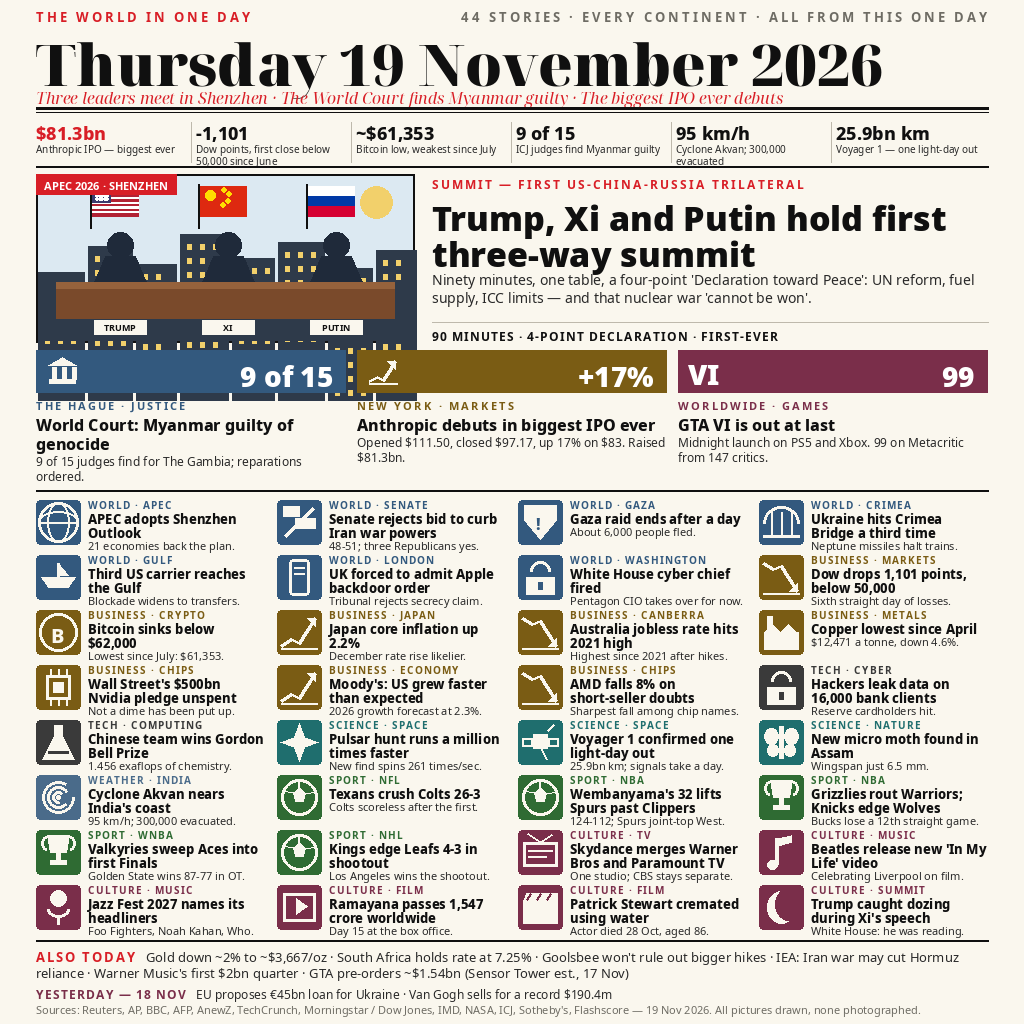
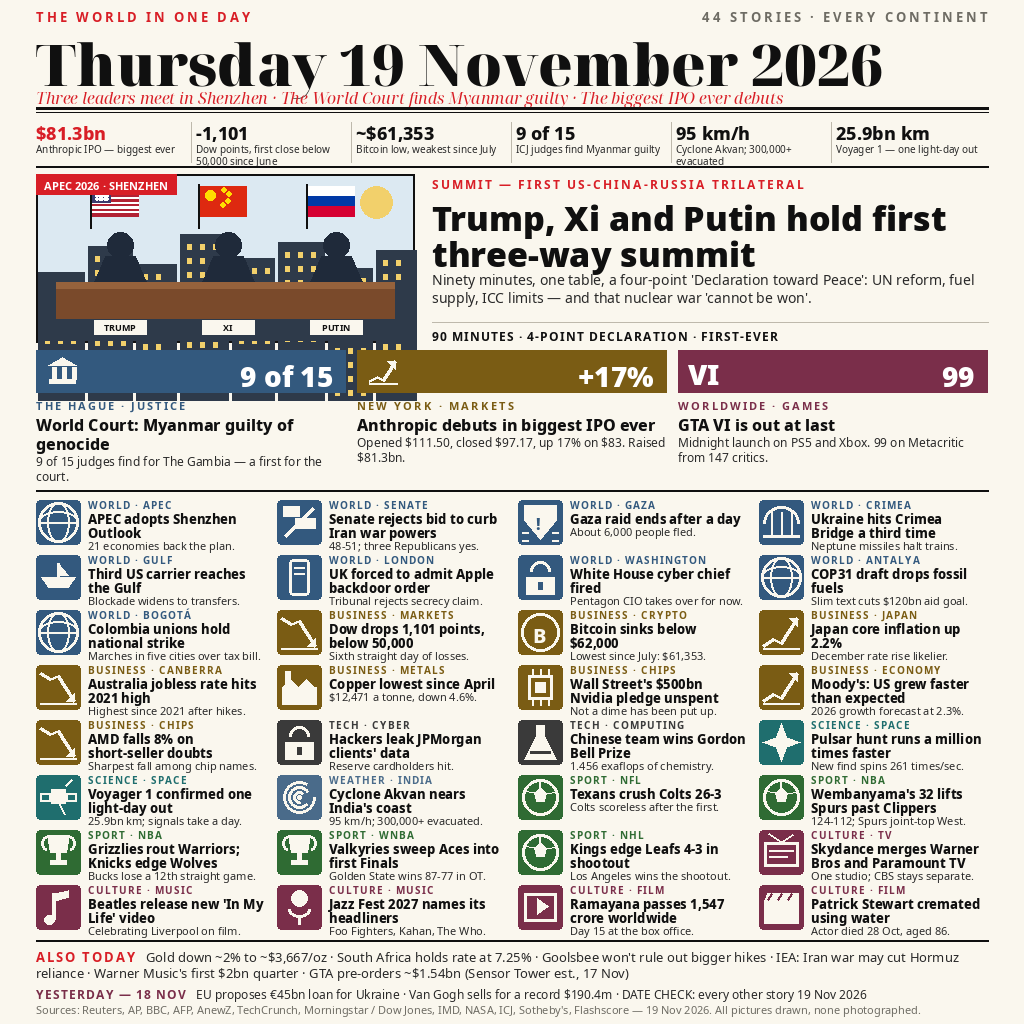
v6 fix round: audit round-1 defects D1-D7
- D1: add COP31 draft item (WORLD / ANTALYA) - fossil fuels stripped,
  $120bn aid goal cut; verified live via Reuters 19 Nov
- D2: add Colombia national strike (WORLD / BOGOTA) - CUT-called,
  marches in five cities over tax bill; verified live 19 Nov
- Swaps (count stays 44): remove micro moth + Trump dozing, the two
  lowest-consequence items; World 9, Science 2, Culture 5
- D3: Jazz Fest deck -> 'Foo Fighters, Kahan, The Who.'
- D4: Akvan '300,000' -> '300,000+' in numbers strip + grid deck
- D5: hackers headline -> 'Hackers leak JPMorgan clients' data'
- D6: ICJ deck carries historic-first framing
- D7: masthead strip -> '44 STORIES / EVERY CONTINENT'
- Footer: 'DATE CHECK: every other story 19 Nov 2026' on Yesterday line
- Research addendum in work/research-v6-addendum.md (outside repo)

diff --git a/render_v6.py b/render_v6.py
@@ -376,7 +376,7 @@ def tile(d, x, y, s, colour, key):
 # (kicker, pictogram key, section colour, headline, one-line deck)
 
 GRID = [
-    # WORLD (7)
+    # WORLD (9)
     ("WORLD · APEC", "globe", STEEL,
      "APEC adopts Shenzhen Outlook",
      "21 economies back the plan."),
@@ -398,6 +398,12 @@ GRID = [
     ("WORLD · WASHINGTON", "lock", STEEL,
      "White House cyber chief fired",
      "Pentagon CIO takes over for now."),
+    ("WORLD · ANTALYA", "globe", STEEL,
+     "COP31 draft drops fossil fuels",
+     "Slim text cuts $120bn aid goal."),
+    ("WORLD · BOGOTÁ", "globe", STEEL,
+     "Colombia unions hold national strike",
+     "Marches in five cities over tax bill."),
     # BUSINESS (8)
     ("BUSINESS · MARKETS", "chart-down", OCHRE,
      "Dow drops 1,101 points, below 50,000",
@@ -425,25 +431,22 @@ GRID = [
      "Sharpest fall among chip names."),
     # TECH (2)
     ("TECH · CYBER", "lock", SLATE,
-     "Hackers leak data on 16,000 bank clients",
+     "Hackers leak JPMorgan clients' data",
      "Reserve cardholders hit."),
     ("TECH · COMPUTING", "flask", SLATE,
      "Chinese team wins Gordon Bell Prize",
      "1.456 exaflops of chemistry."),
-    # SCIENCE (3)
+    # SCIENCE (2)
     ("SCIENCE · SPACE", "star", TEAL,
      "Pulsar hunt runs a million times faster",
      "New find spins 261 times/sec."),
     ("SCIENCE · SPACE", "satellite", TEAL,
      "Voyager 1 confirmed one light-day out",
      "25.9bn km; signals take a day."),
-    ("SCIENCE · NATURE", "moth", TEAL,
-     "New micro moth found in Assam",
-     "Wingspan just 6.5 mm."),
     # WEATHER (1)
     ("WEATHER · INDIA", "cyclone", SKY,
      "Cyclone Akvan nears India's coast",
-     "95 km/h; 300,000 evacuated."),
+     "95 km/h; 300,000+ evacuated."),
     # SPORT (5)
     ("SPORT · NFL", "ball", GREEN,
      "Texans crush Colts 26-3",
@@ -460,7 +463,7 @@ GRID = [
     ("SPORT · NHL", "ball", GREEN,
      "Kings edge Leafs 4-3 in shootout",
      "Los Angeles wins the shootout."),
-    # CULTURE (6)
+    # CULTURE (5)
     ("CULTURE · TV", "tv", WINE,
      "Skydance merges Warner Bros and Paramount TV",
      "One studio; CBS stays separate."),
@@ -469,23 +472,20 @@ GRID = [
      "Celebrating Liverpool on film."),
     ("CULTURE · MUSIC", "mic", WINE,
      "Jazz Fest 2027 names its headliners",
-     "Foo Fighters, Noah Kahan, Who."),
+     "Foo Fighters, Kahan, The Who."),
     ("CULTURE · FILM", "film", WINE,
      "Ramayana passes 1,547 crore worldwide",
      "Day 15 at the box office."),
     ("CULTURE · FILM", "clapper", WINE,
      "Patrick Stewart cremated using water",
      "Actor died 28 Oct, aged 86."),
-    ("CULTURE · SUMMIT", "moon", WINE,
-     "Trump caught dozing during Xi's speech",
-     "White House: he was reading."),
 ]
 
 # Second leads: (band colour, band big text, kicker, headline, deck)
 SECOND = [
     (STEEL, "9 of 15", "THE HAGUE · JUSTICE",
      "World Court: Myanmar guilty of genocide",
-     "9 of 15 judges find for The Gambia; reparations ordered."),
+     "9 of 15 judges find for The Gambia — a first for the court."),
     (OCHRE, "+17%", "NEW YORK · MARKETS",
      "Anthropic debuts in biggest IPO ever",
      "Opened $111.50, closed $97.17, up 17% on $83. Raised $81.3bn."),
@@ -500,7 +500,7 @@ NUMBERS = [
     ("-1,101", "Dow points, first close below 50,000 since June"),
     ("~$61,353", "Bitcoin low, weakest since July"),
     ("9 of 15", "ICJ judges find Myanmar guilty"),
-    ("95 km/h", "Cyclone Akvan; 300,000 evacuated"),
+    ("95 km/h", "Cyclone Akvan; 300,000+ evacuated"),
     ("25.9bn km", "Voyager 1 — one light-day out"),
 ]
 
@@ -601,7 +601,7 @@ def main():
     # ---- masthead ------------------------------------------------------
     y = 8
     tracked(d, M, y, "THE WORLD IN ONE DAY", F_BOLD(13), ACCENT, tracking=3)
-    right = "44 STORIES · EVERY CONTINENT · ALL FROM THIS ONE DAY"
+    right = "44 STORIES · EVERY CONTINENT"
     tracked(d, W - M - tracked_w(d, right, F_BOLD(13), 3), y, right,
             F_BOLD(13), GREY, tracking=3)
     y = 24
@@ -745,7 +745,8 @@ def main():
     x = tracked(d, M, y, "YESTERDAY — 18 NOV", F_BOLD(12), WINE, tracking=1)
     x += 10
     yday = ("EU proposes €45bn loan for Ukraine · "
-            "Van Gogh sells for a record $190.4m")
+            "Van Gogh sells for a record $190.4m · "
+            "DATE CHECK: every other story 19 Nov 2026")
     d.text((x, y), yday, font=F_REG(12), fill=BODY)
     d.text((M, y + 16),
            "Sources: Reuters, AP, BBC, AFP, AnewZ, TechCrunch, "

diff --git a/main.py b/main.py
@@ -11,7 +11,8 @@ pictogram grid across world, business, tech, science, weather, sport and
 culture, an "Also today" ticker, and a clearly labelled "Yesterday — 18
 Nov" slot for the EU Ukraine loan and the record Van Gogh sale, which are
 not 19 Nov events. 44 stories on the page in total, every headline,
-figure and date taken from the verified research in work/research-v6.md.
+figure and date taken from the verified research in work/research-v6.md
+and work/research-v6-addendum.md (COP31 draft, Colombia strike).
 
 The image itself is drawn at build time by render_v6.py (Pillow, fixed
 data, no clock, no network, no randomness) and committed as entry.png;

diff --git a/README.md b/README.md
@@ -19,9 +19,9 @@ mkdir -p out && MAKEFUN_OUTPUT_DIR=out python3 main.py
 A dense illustrated front page — "The World in One Page" — for Thursday 19 November 2026: 44 stories on one page. A huge serif masthead names the date, a six-figure "day in numbers" strip runs underneath, and the lead is a flat diagrammatic illustration of the first US-China-Russia trilateral in Shenzhen (skyline, three flags, an abstract table — no faces, no fake photos).
 
 - **Lead — Summit in Shenzhen:** Trump, Xi and Putin hold a first three-way summit. Ninety minutes, one table, a four-point "Declaration toward Peace": UN reform, fuel supply, ICC limits — and that nuclear war "cannot be won".
-- **Second leads:** The World Court finds Myanmar guilty of genocide (9 of 15 judges); Anthropic debuts in the biggest IPO ever (opened $111.50, closed $97.17, +17% on its $83 price, $81.3bn raised); GTA VI is out at last (midnight launch on PS5 and Xbox, 99 on Metacritic from 147 critics).
-- **The day in numbers:** Anthropic $81.3bn · Dow −1,101 · Bitcoin ~$61,353 · ICJ 9 of 15 · Cyclone Akvan 95 km/h, 300,000 evacuated · Voyager 1 25.9bn km.
-- **Story grid (32):** World — APEC adopts the Shenzhen Outlook; Senate rejects a bid to curb Iran war powers, 48–51; the Gaza raid ends after a day; Ukraine hits the Crimea Bridge a third time; a third US carrier reaches the Gulf; the UK is forced to admit the Apple backdoor order; the White House cyber chief is fired. Business — Dow drops 1,101 points, below 50,000; Bitcoin sinks below $62,000; Japan core inflation up 2.2%; Australia's jobless rate hits a 2021 high; copper lowest since April; Wall Street's $500bn Nvidia pledge unspent; Moody's: the US grew faster than expected; AMD falls 8% on short-seller doubts. Tech — hackers leak data on 16,000 bank clients; a Chinese team wins the Gordon Bell Prize. Science — a pulsar hunt runs a million times faster; Voyager 1 confirmed one light-day out; a new micro moth found in Assam. Weather — Cyclone Akvan nears India's coast. Sport — Texans crush Colts 26–3; Wembanyama's 32 lifts Spurs past Clippers; Grizzlies rout Warriors, Knicks edge Wolves; Valkyries sweep Aces into a first Finals; Kings edge Leafs 4–3 in a shootout. Culture — Skydance merges Warner Bros and Paramount TV; the Beatles release a new "In My Life" video; Jazz Fest 2027 names its headliners; Ramayana passes 1,547 crore worldwide; Patrick Stewart cremated using water; Trump caught dozing during Xi's speech.
+- **Second leads:** The World Court finds Myanmar guilty of genocide (9 of 15 judges — a first for the court); Anthropic debuts in the biggest IPO ever (opened $111.50, closed $97.17, +17% on its $83 price, $81.3bn raised); GTA VI is out at last (midnight launch on PS5 and Xbox, 99 on Metacritic from 147 critics).
+- **The day in numbers:** Anthropic $81.3bn · Dow −1,101 · Bitcoin ~$61,353 · ICJ 9 of 15 · Cyclone Akvan 95 km/h, 300,000+ evacuated · Voyager 1 25.9bn km.
+- **Story grid (32):** World — APEC adopts the Shenzhen Outlook; Senate rejects a bid to curb Iran war powers, 48–51; the Gaza raid ends after a day; Ukraine hits the Crimea Bridge a third time; a third US carrier reaches the Gulf; the UK is forced to admit the Apple backdoor order; the White House cyber chief is fired; the COP31 draft drops fossil fuels and cuts the $120bn aid goal; Colombia's unions hold a national strike, with marches in five cities over the tax bill. Business — Dow drops 1,101 points, below 50,000; Bitcoin sinks below $62,000; Japan core inflation up 2.2%; Australia's jobless rate hits a 2021 high; copper lowest since April; Wall Street's $500bn Nvidia pledge unspent; Moody's: the US grew faster than expected; AMD falls 8% on short-seller doubts. Tech — hackers leak JPMorgan clients' data; a Chinese team wins the Gordon Bell Prize. Science — a pulsar hunt runs a million times faster; Voyager 1 confirmed one light-day out. Weather — Cyclone Akvan nears India's coast. Sport — Texans crush Colts 26–3; Wembanyama's 32 lifts Spurs past Clippers; Grizzlies rout Warriors, Knicks edge Wolves; Valkyries sweep Aces into a first Finals; Kings edge Leafs 4–3 in a shootout. Culture — Skydance merges Warner Bros and Paramount TV; the Beatles release a new "In My Life" video; Jazz Fest 2027 names its headliners (Foo Fighters, Kahan, The Who); Ramayana passes 1,547 crore worldwide; Patrick Stewart cremated using water.
 - **Also today:** Gold down ~2% to ~$3,667/oz; South Africa holds its rate at 7.25%; Goolsbee won't rule out bigger hikes; IEA: the Iran war may cut Hormuz reliance; Warner Music's first $2bn quarter; GTA pre-orders ~$1.54bn (Sensor Tower estimate, 17 Nov).
 - **Yesterday — 18 Nov (labelled as such):** the EU proposes a €45bn loan for Ukraine; Van Gogh sells for a record $190.4m.
 
@@ -30,6 +30,20 @@ The page is drawn by `render_v6.py` (build-time only, Pillow) from the fixed new
 ## What changed in v6 (and why)
 
 v5 was typography-only, ~10 items, no illustration — approved by Ketua ("bagus sih") and submitted 19 Nov, but its live dev rank sat around #3,800 of ~13,000, well below the top-50 cutoff. The audit found the lever was a dense illustrated front page: 35–45 stories, the format the leaderboard's top entries use (huge dated masthead, number strip, illustrated leads, a grid of small illustrated stories, a numbered "also" list, a date-check footer). v6 follows that format with the flat infographic style, because the earlier illustrated versions (v2/v4) still read as AI-made. v5 stays intact in git (commit 33d8ba1) as the fallback.
+
+## What changed in the v6 fix round (round-1 audit, 7 defects)
+
+The round-1 audit (`work/audit-log-v6.md`) found 7 defects; all are fixed in this revision, and the two new stories were verified live first (see `work/research-v6-addendum.md`).
+
+- **D1 — COP31 added.** The 19 Nov COP31 draft deal in Antalya (fossil-fuel references stripped out, the $120bn adaptation-finance figure dropped, text cut from 144 to 80 paragraphs) is now a World grid item: "COP31 draft drops fossil fuels — Slim text cuts $120bn aid goal." (Reuters, Antalya, 19 Nov.)
+- **D2 — Colombia added.** The 19 Nov nationwide general strike called by the CUT against the tax reform, with marches in Bogotá, Medellín, Cali, Barranquilla and Bucaramanga, is now a World grid item: "Colombia unions hold national strike — Marches in five cities over tax bill." South America is now on the page, so the masthead's "EVERY CONTINENT" claim holds.
+- **Swaps (count stays at 44):** the micro-moth item (Science — the least consequential verified story) and the Trump-dozing item (Culture — the least consequential item, and the only one resting on a contested reading of a video) were removed to make room. World is now 9 items, Science 2, Culture 5; the grid is still 32 and the page total is still 44.
+- **D3 — Jazz Fest deck fixed:** "Foo Fighters, Kahan, The Who." (the full "Noah Kahan" does not fit the one-line deck; "The Who" was being truncated to "Who.").
+- **D4 — Akvan figure fixed in both places:** "300,000+" evacuated, in the numbers strip and in the Cyclone Akvan deck (the source says more than 300,000).
+- **D5 — Hackers headline fixed:** "Hackers leak JPMorgan clients' data" — the story's core fact is JPMorgan, and the 16,000 figure covered only the Reserve cards (~24,000 in total across JPMorgan, Visa and Mastercard).
+- **D6 — ICJ deck fixed:** "9 of 15 judges find for The Gambia — a first for the court." (the first time the ICJ has held a state responsible for genocide).
+- **D7 — Masthead strip shortened:** "44 STORIES · EVERY CONTINENT" — the "ALL FROM THIS ONE DAY" clause contradicted the labelled 18 Nov Yesterday slot.
+- **Date-check footer added** (auditor's recommendation): the Yesterday line now ends "DATE CHECK: every other story 19 Nov 2026", so the page states its own date discipline. It fits on the existing line with room to spare; no story text was shrunk. (A ✓ glyph was tried first and rendered as a tofu box in Noto Sans, so the line uses a colon instead.)
 
 ## Facts — v5 → v6 corrections
 
@@ -46,7 +60,7 @@ v5 was typography-only, ~10 items, no illustration — approved by Ketua ("bagus
 
 ## Sources (19 Nov 2026)
 
-AnewZ (Shenzhen summit, APEC Outlook), The News / Reuters (ICJ Myanmar verdict), Motley Fool (Anthropic debut), Candid Dragon evening briefing (Dow, AMD), PlainBTC (Bitcoin, gold), Morningstar / Dow Jones (Japan inflation, Australia jobs, South Africa rate, Goolsbee, copper, IEA, Nvidia pledge, Moody's), TechCrunch (UK Apple backdoor order), Nextgov (White House cyber chief), Reuters via WNCY (JPMorgan data leak), HPCwire (Gordon Bell Prize), Phys.org (pulsar hunt), Scientific American (Voyager 1), Sambad English (Assam moth), Wikipedia / IMD (Cyclone Akvan), SportsFBI (Texans–Colts), Flashscore (NBA roundup), USCT Sport (Valkyries–Aces), AskScores (Kings–Leafs), Asia Today (GTA VI launch), CNN via KESQ (GTA pre-order estimate), AI Eye (Skydance), Standard Topic archive (Warner Music, Beatles, Jazz Fest, Ramayana, Patrick Stewart), Tatler Asia (Trump dozing), European Commission (EU loan, 18 Nov), Artnet (Van Gogh, 18 Nov), Reuters via SRN News (Senate vote), ASEAN NOW / BBC (Gaza), Devdiscourse / Reuters (Crimea Bridge), UECN / China Daily (third carrier). Researched from public news on 19–20 November 2026; the image is drawn, no photograph is from the day.
+AnewZ (Shenzhen summit, APEC Outlook), The News / Reuters (ICJ Myanmar verdict), Motley Fool (Anthropic debut), Candid Dragon evening briefing (Dow, AMD), PlainBTC (Bitcoin, gold), Morningstar / Dow Jones (Japan inflation, Australia jobs, South Africa rate, Goolsbee, copper, IEA, Nvidia pledge, Moody's), TechCrunch (UK Apple backdoor order), Nextgov (White House cyber chief), Reuters via WNCY (JPMorgan data leak), HPCwire (Gordon Bell Prize), Phys.org (pulsar hunt), Scientific American (Voyager 1), Sambad English (Assam moth), Wikipedia / IMD (Cyclone Akvan), SportsFBI (Texans–Colts), Flashscore (NBA roundup), USCT Sport (Valkyries–Aces), AskScores (Kings–Leafs), Asia Today (GTA VI launch), CNN via KESQ (GTA pre-order estimate), AI Eye (Skydance), Standard Topic archive (Warner Music, Beatles, Jazz Fest, Ramayana, Patrick Stewart), Tatler Asia (Trump dozing), European Commission (EU loan, 18 Nov), Artnet (Van Gogh, 18 Nov), Reuters via SRN News (Senate vote), ASEAN NOW / BBC (Gaza), Devdiscourse / Reuters (Crimea Bridge), UECN / China Daily (third carrier), Reuters via 979 WEVE (COP31 draft), Watan News (COP31 draft text), Climate & Capital Media / AFP (COP31), Terra World News (Colombia strike), Travelers Today / Semana / El Tiempo (Colombia strike, live), I-Journey / US Embassy Bogotá alert (Colombia strike). Researched from public news on 19–20 November 2026; the image is drawn, no photograph is from the day.
 
 ---
 
